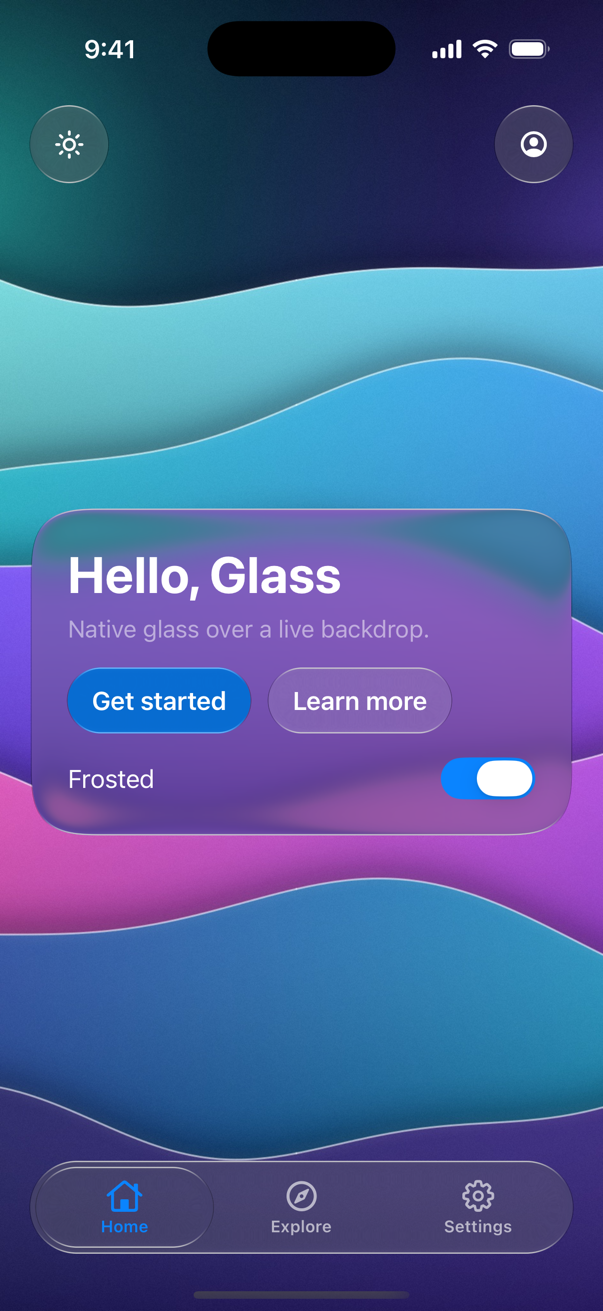
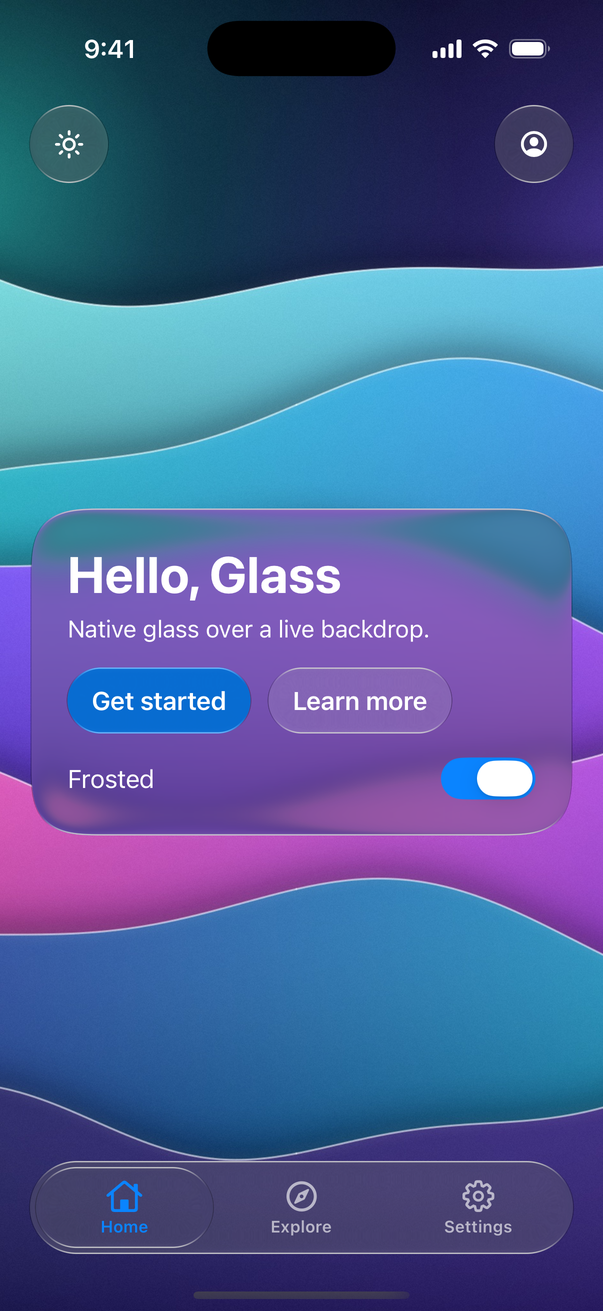
Apple: Studio and Hello Glass screenshots retaken on the iPhone 16 Pro simulator with refraction by size: the Materials lab panel is laid out first, so it shows every control (the wallpaper row was scrolled out of sight); content above the tab bar fades over 44 pt and is gone before it meets the bar

diff --git a/platforms/apple/Studio/Sources/Support.swift b/platforms/apple/Studio/Sources/Support.swift
@@ -194,8 +194,16 @@ struct ShareButton: View {
 /// buttons (macOS), and fades out above the floating tab bar, so no control
 /// ever sits half hidden behind a bar.
 struct ScrollEdge: ViewModifier {
-    /// How far the content fades at either end.
+    /// How far the content fades under the top bar.
     var fade: CGFloat = 24
+    /// How far the content fades above the tab bar: a control row's height,
+    /// so a row that reaches the bar has already faded out.
+    static let bottomFade: CGFloat = 44
+    /// Below the fade, nothing shows: the tab bar, the space under it and a
+    /// small gap above it, so content has faded out before it meets the bar.
+    static let bottomClear: CGFloat = StudioLayout.tabBarClearance - 8
+    /// Bottom padding that lets the last row scroll clear of the fade.
+    static let contentInset: CGFloat = bottomClear + bottomFade + 4
 
     func body(content: Content) -> some View {
         content
@@ -205,9 +213,9 @@ struct ScrollEdge: ViewModifier {
                         .frame(height: fade)
                     Color.black
                     LinearGradient(colors: [.black, .clear], startPoint: .top, endPoint: .bottom)
-                        .frame(height: fade)
+                        .frame(height: Self.bottomFade)
                     Color.clear
-                        .frame(height: StudioLayout.tabBarClearance - 16)
+                        .frame(height: Self.bottomClear)
                 }
                 // The top fade lies just above the page, under the bar.
                 .padding(.top, -fade)

diff --git a/platforms/apple/Studio/Sources/StoriesPage.swift b/platforms/apple/Studio/Sources/StoriesPage.swift
@@ -48,10 +48,26 @@ struct StoriesPage: View {
     let position: GlassScrollPosition
     @Binding var filter: String?
 
+    /// How far below the top safe area the top blur reaches: past the
+    /// toolbar row, so stories passing between and under its clusters blur.
+    #if os(macOS)
+    static let topBlurDepth: CGFloat = 128
+    #else
+    static let topBlurDepth: CGFloat = 116
+    #endif
+
     var body: some View {
+        GeometryReader { proxy in
+            content(safeTop: proxy.safeAreaInsets.top)
+        }
+    }
+
+    private func content(safeTop: CGFloat) -> some View {
         VStack(spacing: 0) {
             ZStack(alignment: .top) {
-                GlassProgressiveBlur(edge: .top, size: 128)
+                // Measured from the top of the screen, through the status bar
+                // and the toolbar row.
+                GlassProgressiveBlur(edge: .top, size: safeTop + Self.topBlurDepth)
                     .ignoresSafeArea(edges: .top)
                 GlassToolbar(material: .regular) {
                     GlassMenu(icon: "line.3.horizontal.decrease", label: "Filter") {

diff --git a/platforms/apple/Studio/Sources/LabPage.swift b/platforms/apple/Studio/Sources/LabPage.swift
@@ -20,6 +20,11 @@ struct LabPage: View {
                     // Room for the lens above a tall panel (the largest text
                     // sizes); the panel scrolls within what is left.
                     .frame(maxHeight: wide ? nil : max(240, proxy.size.height - Self.lensRoom))
+                    // The panel is measured first, so it shows every control
+                    // whenever they fit and the lens takes the rest (the
+                    // stack would otherwise split the height evenly and make
+                    // the panel scroll, hiding its last rows).
+                    .layoutPriority(1)
             }
             .padding(.horizontal, StudioLayout.pagePadding)
             .padding(.top, 12)

diff --git a/examples/swiftui/HelloGlass/HelloGlass/ContentView.swift b/examples/swiftui/HelloGlass/HelloGlass/ContentView.swift
@@ -69,9 +69,10 @@ struct ContentView: View {
                 VStack(alignment: .leading, spacing: 6) {
                     Text("Hello, Glass")
                         .font(.largeTitle.bold())
+                    // In the glass foreground, like the title, so it stays
+                    // legible on Clear glass over the bright wallpaper.
                     Text("Native glass over a live backdrop.")
                         .font(.callout)
-                        .foregroundStyle(.secondary)
                         .lineLimit(1)
                 }
                 .accessibilityElement(children: .combine)

diff --git a/platforms/apple/Studio/Sources/ControlsPage.swift b/platforms/apple/Studio/Sources/ControlsPage.swift
@@ -44,7 +44,7 @@ struct ControlsPage: View {
                     }
                 }
                 .padding(.horizontal, StudioLayout.pagePadding)
-                .padding(.bottom, StudioLayout.tabBarClearance + 16)
+                .padding(.bottom, ScrollEdge.contentInset)
                 .frame(maxWidth: .infinity)
             }
             .scrollIndicators(.hidden)
